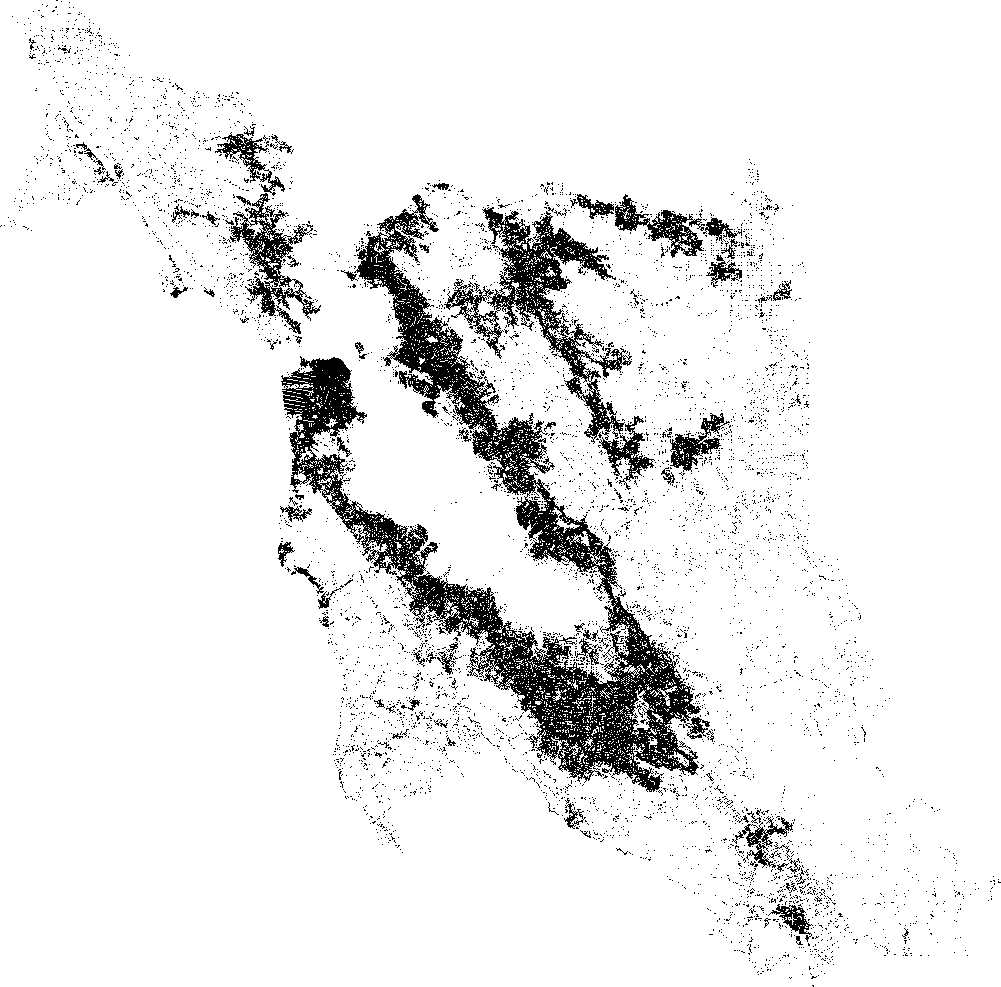
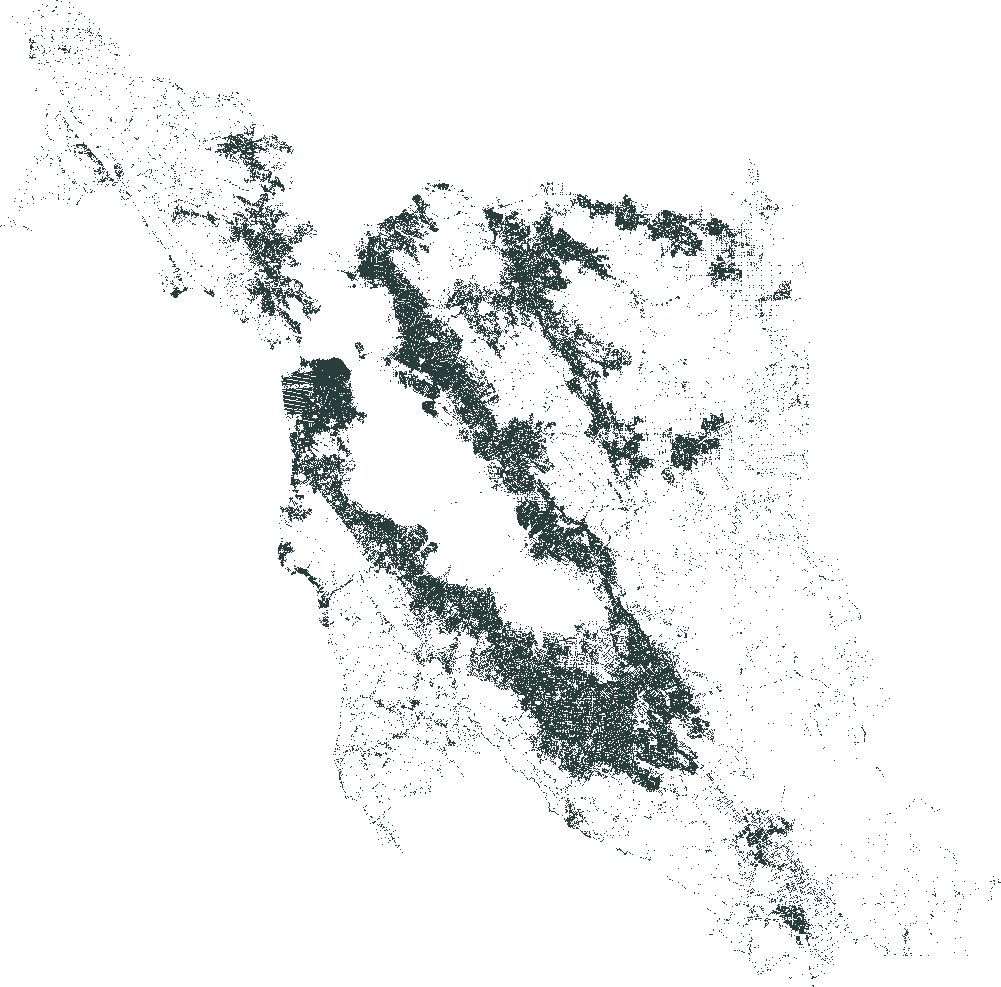
changed color of graph

diff --git a/Code/road_network.cpp b/Code/road_network.cpp
@@ -113,7 +113,9 @@ void RoadNetwork::viewGraph(){
     //canvas->getPixel(2, 2).l = 0;//Our current dataset is too big, just for show
     for (auto a : Nodelist_){
         if (a != NULL){
-            canvas->getPixel(unsigned (a->x_), unsigned (a->y_)).l = 0;
+            canvas->getPixel(unsigned (a->x_), unsigned (a->y_)).l = 0.2;
+            canvas->getPixel(unsigned (a->x_), unsigned (a->y_)).s = 0.2;
+            canvas->getPixel(unsigned (a->x_), unsigned (a->y_)).h = 180;
         }
     }
     //TODO: blacken the path:Most direct route
